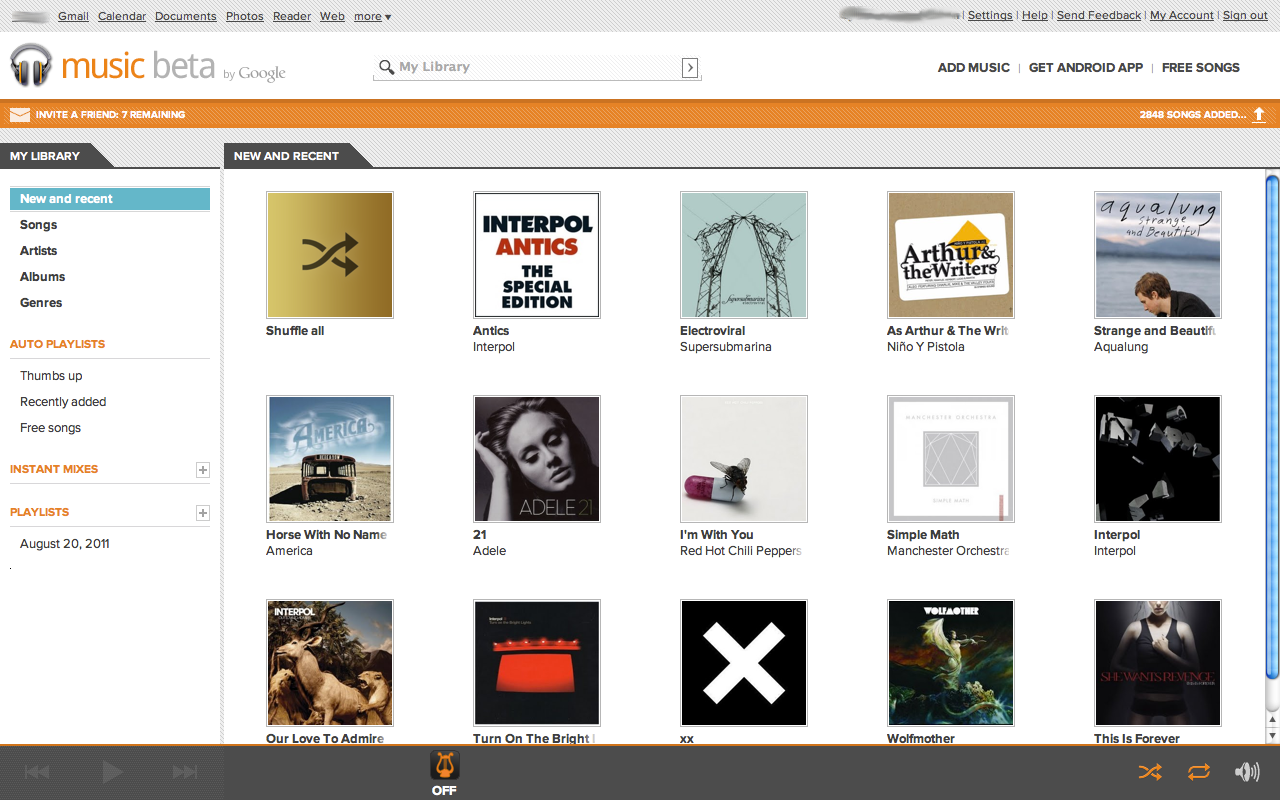
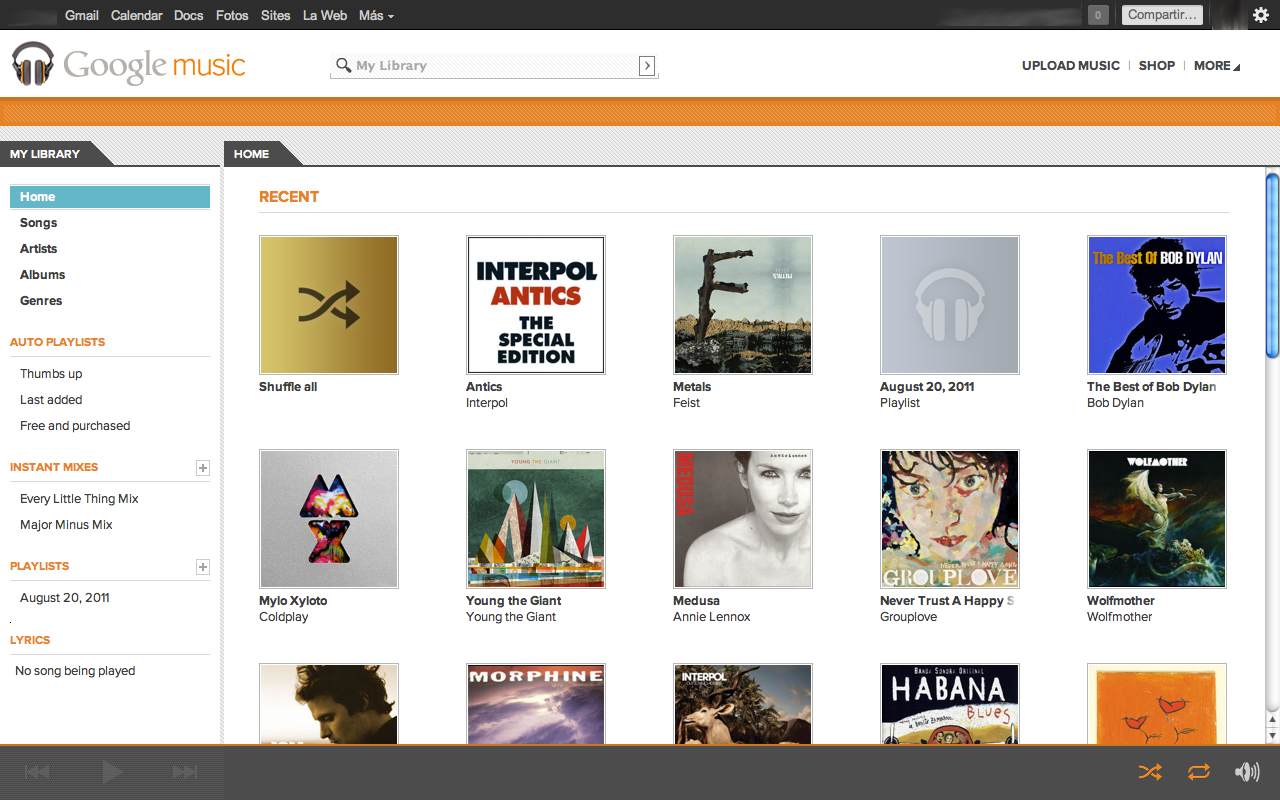
Lyria button removed, small aesthetic changes

diff --git a/contentscript.js b/contentscript.js
@@ -1,6 +1,6 @@
 /*****************************************************************************
 *	Chromium Extension to Display Lyrics for Current Song in Google Music 
-*	Beta from lyricwiki.org
+*	from lyricwiki.org
 *
 *   Copyright (C) 2011  Oscar Figuerola
 *
@@ -26,56 +26,19 @@
 var songName;
 var artistName;
 var albumName;
-var lyricsAreOn = 0;
 var timer;
 
+/**
+// Initialization point
 $(document).ready(function (){
-   // Modify player layout to add button  
-   var allHTMLTags = document.getElementsByTagName("*");
-   var playerNode;
-   var bgImageURL = chrome.extension.getURL("images/lyria-lyrics-button.png");
    
-   for (var i = 0; i < allHTMLTags.length; i++) {   
-       if (allHTMLTags[i].className == "player-left") {
-           playerNode = allHTMLTags[i];
-           playerNode.style.width = "505px";
-		   playerNode.id = "player-left";
-	   
-	       //add Image Button in player left
-	       $("#player-left").append("<div id=\"googlemusic_lyrics_nav\" class=\"googlemusic_lyrics_nav_off\" style=\"background-image:url(" + bgImageURL + 
-									");\"><span id=\"lyrics_on\" class=\"lyrics_state\">ON</span><span id=\"lyrics_off\" class=\"lyrics_state\">OFF</span></div>");
-		   $("#googlemusic_lyrics_nav").click(switchLyrics);
-           		   
-		   break;
-       }   
-	}
 });
+**/
 
-function switchLyrics()
-{
-	if (lyricsAreOn)
-	{
-		// Turn off lyrics
-		lyricsAreOn = 0;
-		clearTimeout(timer);
-		$('#googlemusic_lyrics_nav').addClass('googlemusic_lyrics_nav_off');
-		$('#googlemusic_lyrics_nav').removeClass('googlemusic_lyrics_nav_on');
-		
-		document.getElementById("lyrics_on").style.display = "none"; 
-		document.getElementById("lyrics_off").style.display = "block"; 
-	}
-	else
-	{	
-		// Turn on lyrics
-		lyricsAreOn = 1;
-		getLyrics();
-		$('#googlemusic_lyrics_nav').addClass('googlemusic_lyrics_nav_on');
-		$('#googlemusic_lyrics_nav').removeClass('googlemusic_lyrics_nav_off');	
-
-		document.getElementById("lyrics_off").style.display = "none"; 
-		document.getElementById("lyrics_on").style.display = "block"; 
-	}
-}
+// Add lyrics content area and start checking for sonf names
+$("#nav").append("<div class=\"nav-section-header\">LYRICS</div>");
+$("#nav").append("<div class=\"gm-lyrics\" id=\"gm-lyrics\">No song being played<br /><br /><br /></div>");
+getLyrics();
 
 function getLyrics(){  
    var	currentLyrics = "";
@@ -91,6 +54,7 @@ function getLyrics(){
    } 
    
    if (songName == $("#playerSongTitle .fade-out-content").text() && !thereIsError) {
+
 	 	// Keep timer on, but don't request again
 		timer = setTimeout("getLyrics()", 1000);
 		
@@ -101,32 +65,26 @@ function getLyrics(){
    artistName = $("#playerArtist .fade-out-content").text();
    albumName  = "";
    
-   if(songName == null){
-      //alert("Please Play a Song ");
+   if(songName == null) {
       event.preventDefault();
    }
-   else{
+   else {
 	  chrome.extension.sendRequest({song: songName,artist: artistName, album: albumName}, function(response) {  
 		  var lyricsElement; 
 			
 		  if (document.getElementById("gm-lyrics")) { 
 			 lyricsElement = document.getElementById("gm-lyrics"); 
-			 lyricsElement.innerHTML = response.lyrics;
+			 lyricsElement.innerHTML = response.lyrics + "<br /><br /><br /><br />";
 		  }
 		  else {
 			 $("#nav").append("<div class=\"nav-section-header\">LYRICS</div>");
-			 $("#nav").append("<div class=\"gm-lyrics\" id=\"gm-lyrics\">" + response.lyrics + "</div>");		
+			 $("#nav").append("<div class=\"gm-lyrics\" id=\"gm-lyrics\">" + response.lyrics + "<br /><br /><br /></div>");		
 		  }
 		  
 		  $(".gm-lyrics .rtMatcher").remove();     
 	   });
-   
    }
    
    // Keep timer on
    timer = setTimeout("getLyrics()", 1000);
 }
-
-
-
-

diff --git a/background.html b/background.html
@@ -1,69 +1,62 @@
 <html>
-<style>
-body {
-  min-width:500px;
-  overflow-x:hidden;
-}
-</style>
-<script type="text/javascript" src="jquery.js"></script>
-<script>
+  <style>
+    body {
+      min-width: 500px;
+      overflow-x: hidden;
+    }
+  </style>
+  <script type="text/javascript" src="jquery.js"></script>
+  <script>
 
-//Return Message Function ptr
-var sendLyrics;
-var lyrics;
-var sourceURL;
-var status;
-var errorString;
-
-
-
-function loadLyrics(htmlResponse){
-  lyrics = $(htmlResponse).find('div[class="lyricbox"]').html();
-  console.log(lyrics);
-  sendLyrics({"status":"success" , "lyrics": lyrics , "sourceURL": sourceURL});
-  document.body.innerHTML = lyrics;
-}
+    //Return Message Function ptr
+    var sendLyrics;
+    var lyrics;
+    var sourceURL;
+    var status;
+    var errorString;
 
 
-function getLyricsLink(xmlResponse) {  
-  //console.log()
-  //if(xmlResponse.getElementsByTagName('lyrics').textContent.toString().match("Not found")){
-  //   sendLyrics({"status":"Not Found"});
-  // }
-  
-  var url = xmlResponse.getElementsByTagName('url');
-  sourceURL = url[0].textContent;
-  console.log(sourceURL);
-  
-  if(sourceURL.search(/edit/) >= 0) {
-     sendLyrics({"status":"Not Found","lyrics":"Lyrics Not Available. </br> </br> you can add lyrics for this song at <a href=\""
-               + sourceURL + "\" target=\"_blank\">" + sourceURL + "</a>"   });
-  }
-  
-  $.ajax({
-     url: sourceURL,
-     success: loadLyrics 
-  });
+    function loadLyrics(htmlResponse) {
+      lyrics = $(htmlResponse).find('div[class="lyricbox"]').html();
+      console.log(lyrics);
+      sendLyrics({"status":"success" , "lyrics": lyrics , "sourceURL": sourceURL});
+      document.body.innerHTML = lyrics;
+    }
 
-}
 
-chrome.extension.onRequest.addListener(
-  function(request, sender, sendResponse) {
-    //using lyrics.wikia.com REST api.
-    var lyricUrl = "http://lyrics.wikia.com/api.php?artist=" + encodeURIComponent(request.artist) + "&song=" + encodeURIComponent(request.song) + "&fmt=xml";
-    $.ajax({
-       url: "http://lyrics.wikia.com/api.php",
-       data :({artist: request.artist , song : request.song ,fmt : "xml"}),
-       success : getLyricsLink
+    function getLyricsLink(xmlResponse) {  
+      var url = xmlResponse.getElementsByTagName('url');
+      sourceURL = url[0].textContent;
+      console.log(sourceURL);
+      
+      if(sourceURL.search(/edit/) >= 0) {
+         sendLyrics({"status":"Not Found","lyrics":"Lyrics Not Available. </br> </br> you can add lyrics for this song at <a href=\""
+                   + sourceURL + "\" target=\"_blank\">" + sourceURL + "</a>"   });
+      }
+      
+      $.ajax({
+         url: sourceURL,
+         success: loadLyrics 
+      });
+    }
+
+    chrome.extension.onRequest.addListener(
+      function(request, sender, sendResponse) {
+        
+        //using lyrics.wikia.com REST api.
+        var lyricUrl = "http://lyrics.wikia.com/api.php?artist=" + encodeURIComponent(request.artist) + "&song=" + encodeURIComponent(request.song) + "&fmt=xml";
+        $.ajax({
+           url: "http://lyrics.wikia.com/api.php",
+           data :({artist: request.artist , song : request.song ,fmt : "xml"}),
+           success : getLyricsLink
+        });
+        
+        console.log("url: " + lyricUrl);
+        sendLyrics = sendResponse;
+      });
+      
+    $(document).ajaxError(function(){
+       sendLyrics({"status":"failure", "lyrics":"Network Error"});
     });
-    
-    console.log("url: " + lyricUrl);
-    sendLyrics = sendResponse;
-  });
-  
-$(document).ajaxError(function(){
-   sendLyrics({"status":"failure", "lyrics":"Network Error"});
-});
-
-</script>
+  </script>
 </html>

diff --git a/contentscript-theme.css b/contentscript-theme.css
@@ -1,54 +1,8 @@
-#googlemusic_lyrics_nav {
-	width: 32px;
-	height: 32px; 
-	position: relative; 
-	z-index: 1000; 
-	top: 5px; 
-	cursor: pointer;
-	background-repeat: no-repeat;
-	display: inline;
-	float: right;
-	right: 0px;	
-}
 
-.googlemusic_lyrics_nav_off {
-	background-position: 0px 0px;
-    background-repeat: no-repeat;
-}
-
-.googlemusic_lyrics_nav_off:hover {
-	background-position: -32px 0px;
-}
-
-.googlemusic_lyrics_nav_on {
-	background-position: -64px 0px;	
-    background-repeat: no-repeat;
-}
-
-.lyrics_state {
-	font-weight: bold;
-	position: relative;
-	top: 34px;
-}
-
-#lyrics_on {
-	display: none;
-	left: 5px;
-}
-
-#lyrics_off {
-	left: 3px;
-}
-
-#lyrics_header {
-	display: none;
-}
-
-#gs_lyrics_content{
-	width: 80%;
-	color: #666;
-	margin-left: 30px;
-	margin-top: 10px; 
-	margin-bottom: 10px;
-	height: 100%;
+/**
+ * Container for the lyrics
+ **/
+.gm-lyrics {
+	padding-left: 5px;
+	padding-top: 4px;	
 }
